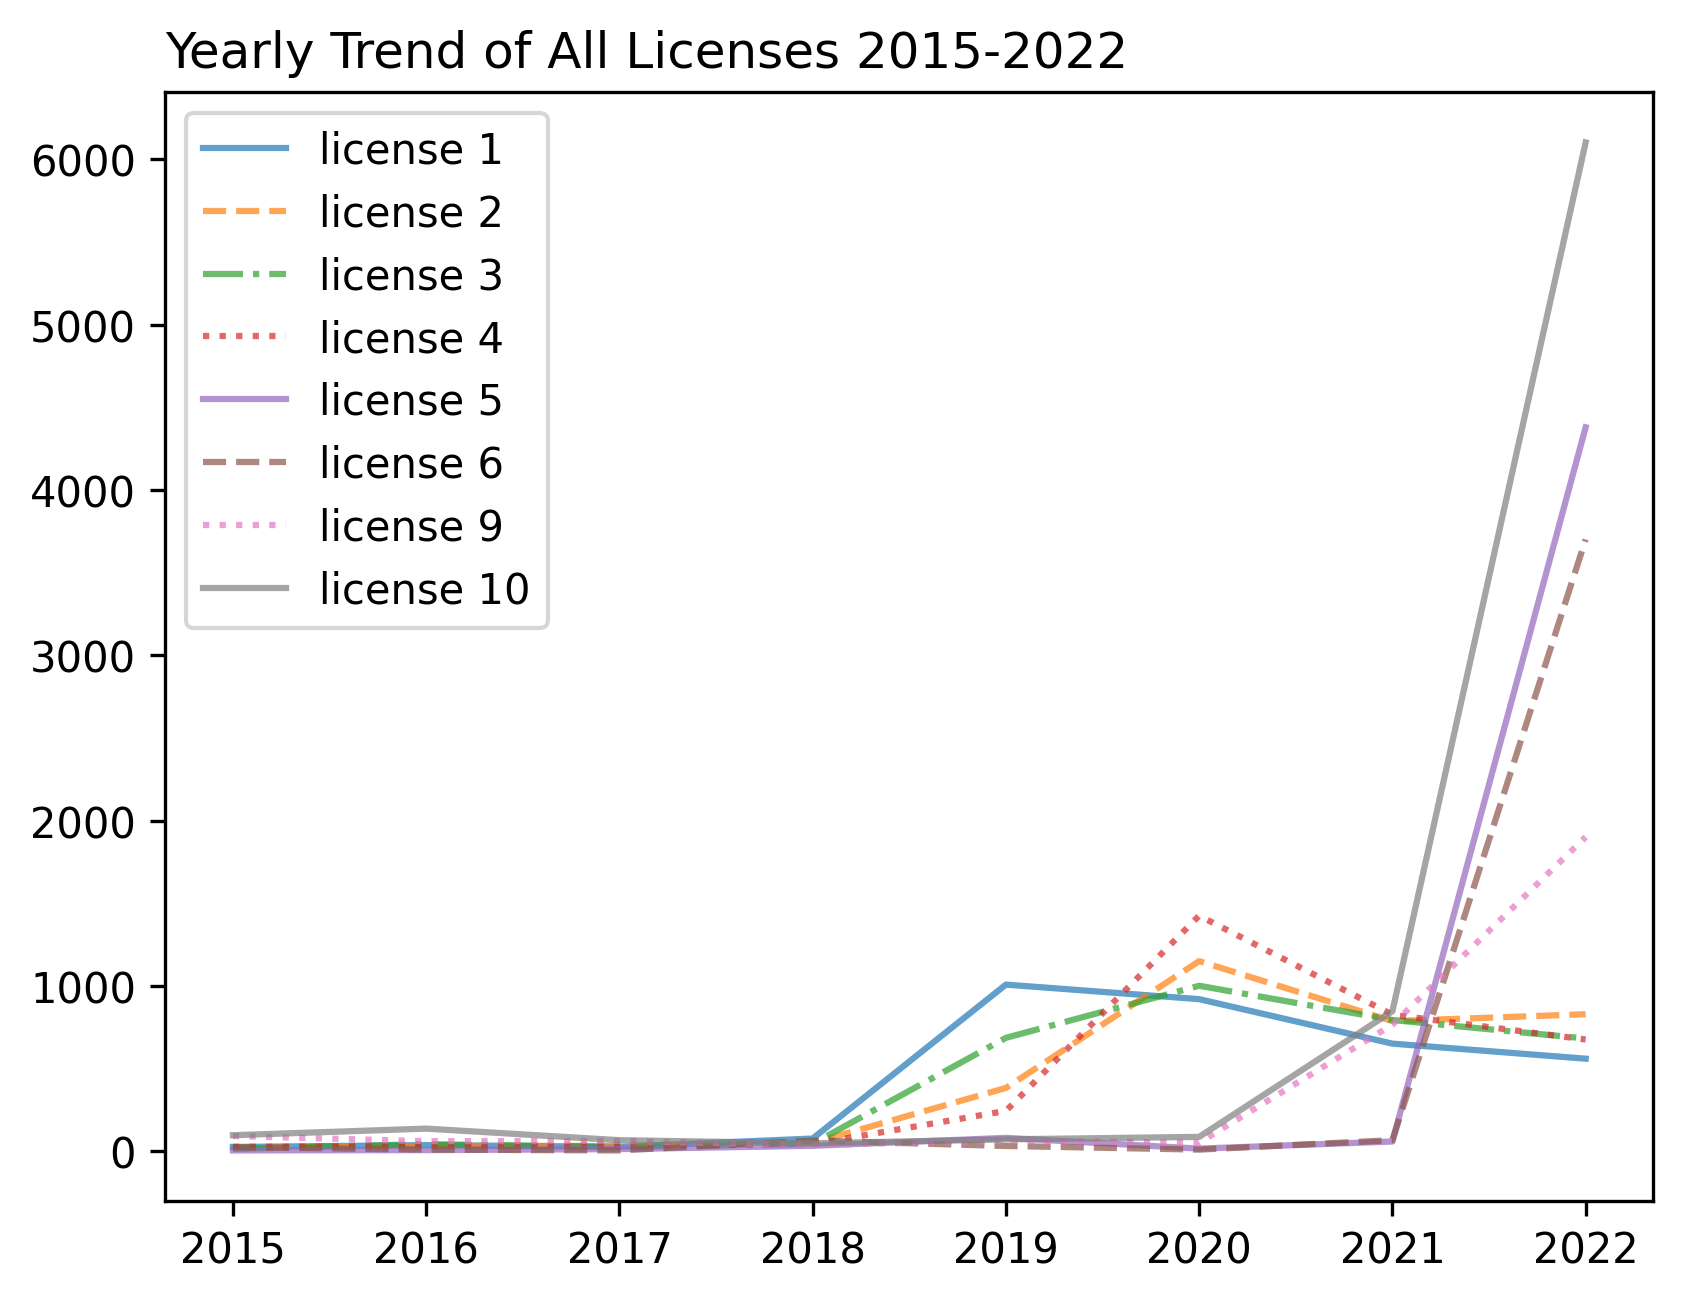
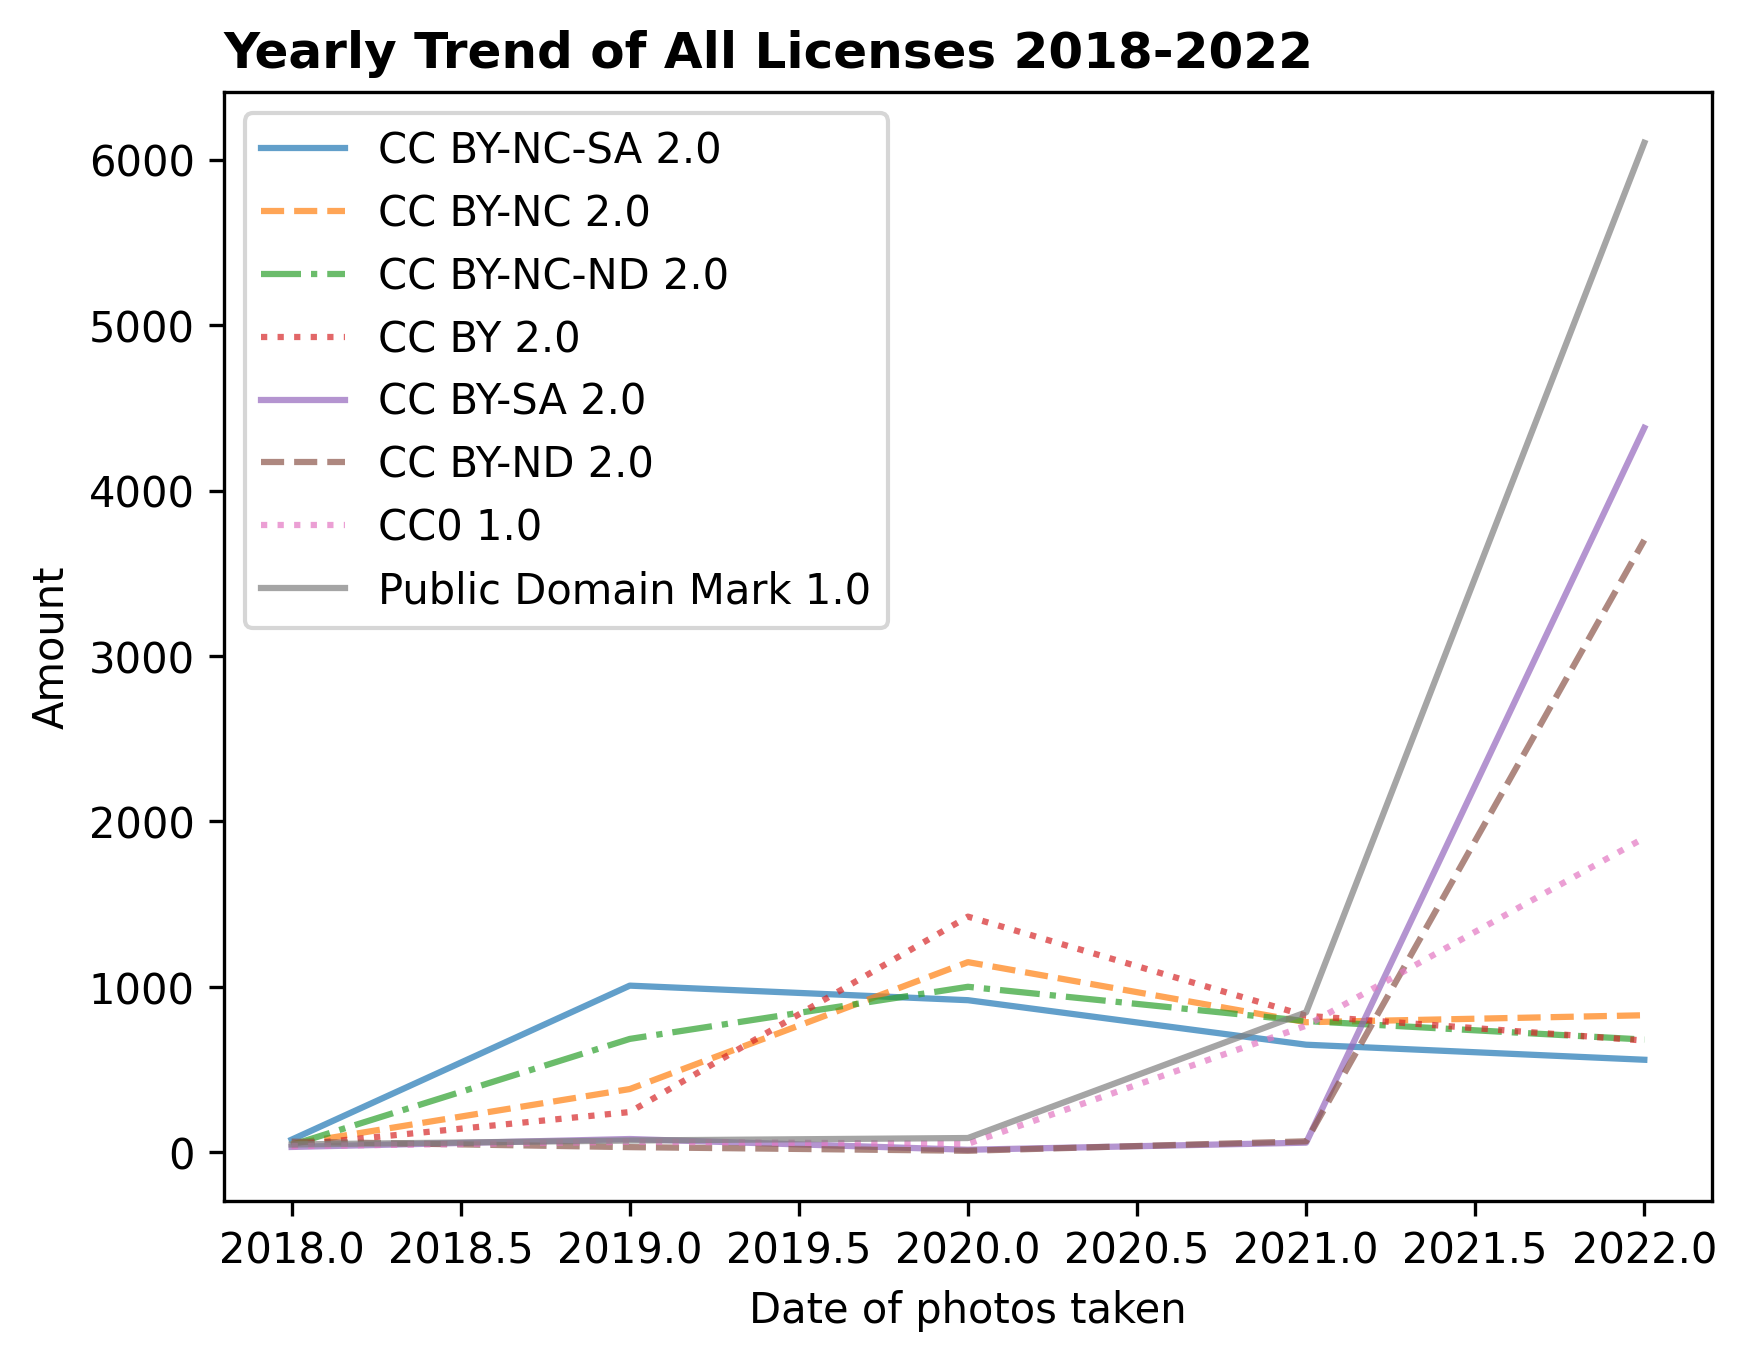
make graph clearer

Changed region(s): [[0.0, 0.0, 0.9887, 0.9831], [0.0309, 0.7066, 0.1545, 0.768], [0.0, 0.5837, 0.1545, 0.6452]]

diff --git a/analyze/data_analysis.py b/analyze/data_analysis.py
@@ -112,16 +112,20 @@ def time_trend(csv_path):
 
     # first use subplots() to create a frame of your plot (figure and axes)
     fig, ax = plt.subplots(figsize=(10, 5))
-    plt.plot(count_df["Dates"], count_df["Counts"])
+    plt.plot(count_df["Dates"], count_df["Counts"], alpha=0.5, linewidth=1)
     plt.xticks(rotation=60)
 
     # We have 828 time nodes in this dataset.
     # So we start from the 0th time node, and end at 828th time node.
     # and step 90 digits each time - only have the 0th, 90th,
     # 180th, ... time nodes showing on this graph.
-    ax.set_xticks(np.arange(0, len(count_df), 90))
-    fig.suptitle('license10 usage in flickr pictures 1967-2022', fontweight="bold")
-    plt.savefig('../analyze/line_graphs/license10_total_trend.png',
+    ax.set_xticks(np.arange(0, len(count_df), 100))
+    # ["CC BY-NC-SA 2.0", "CC BY-NC 2.0", "CC BY-NC-ND 2.0", "CC BY 2.0",
+    #  "CC BY-SA 2.0", "CC BY-ND 2.0", "CC0 1.0", "Public Domain Mark 1.0"]
+    fig.suptitle('CC0 1.0 license usage in flickr pictures 1967-2022', fontweight="bold")
+    plt.xlabel('Year', fontsize=10)
+    plt.ylabel('Amount', fontsize=10)
+    plt.savefig('../analyze/line_graphs/license9_total_trend.png',
                 dpi=300, bbox_inches='tight')
     plt.show()
 
@@ -132,12 +136,12 @@ def time_trend_compile_helper(yearly_count):
     This function will return counts - the list of "Counts" with the
     condition that their corresponding "year" is between [2000, 2022]
     """
-    Years = np.arange(2015, 2023)
+    Years = np.arange(2018, 2023)
     yearly_count["year"] = list(yearly_count.index)
     counts = []
     for num in range(len(yearly_count["Counts"])):
         if ((int(yearly_count["year"][num]) <= 2022)
-                & (int(yearly_count["year"][num]) >= 2015)):
+                & (int(yearly_count["year"][num]) >= 2018)):
             counts.append(yearly_count["Counts"][num])
     print(counts)
     final_yearly_count = pd.DataFrame(list(zip(Years, counts)),
@@ -197,16 +201,18 @@ def time_trend_compile():
     print(yearly_count1)
 
     # plot lines
-    plt.plot(yearly_count1["Years"], yearly_count1["Yearly_counts"], label="license 1", alpha=0.7, linestyle='-')
-    plt.plot(yearly_count2["Years"], yearly_count2["Yearly_counts"], label="license 2", alpha=0.7, linestyle='--')
-    plt.plot(yearly_count3["Years"], yearly_count3["Yearly_counts"], label="license 3", alpha=0.7, linestyle='-.')
-    plt.plot(yearly_count4["Years"], yearly_count4["Yearly_counts"], label="license 4", alpha=0.7, linestyle=":")
-    plt.plot(yearly_count5["Years"], yearly_count5["Yearly_counts"], label="license 5", alpha=0.7, linestyle='-')
-    plt.plot(yearly_count6["Years"], yearly_count6["Yearly_counts"], label="license 6", alpha=0.7, linestyle='--')
-    plt.plot(yearly_count9["Years"], yearly_count9["Yearly_counts"], label="license 9", alpha=0.7, linestyle=":")
-    plt.plot(yearly_count10["Years"], yearly_count10["Yearly_counts"], label="license 10", alpha=0.7)
+    plt.plot(yearly_count1["Years"], yearly_count1["Yearly_counts"], label="CC BY-NC-SA 2.0", alpha=0.7, linestyle='-')
+    plt.plot(yearly_count2["Years"], yearly_count2["Yearly_counts"], label="CC BY-NC 2.0", alpha=0.7, linestyle='--')
+    plt.plot(yearly_count3["Years"], yearly_count3["Yearly_counts"], label="CC BY-NC-ND 2.0", alpha=0.7, linestyle='-.')
+    plt.plot(yearly_count4["Years"], yearly_count4["Yearly_counts"], label="CC BY 2.0", alpha=0.7, linestyle=":")
+    plt.plot(yearly_count5["Years"], yearly_count5["Yearly_counts"], label="CC BY-SA 2.0", alpha=0.7, linestyle='-')
+    plt.plot(yearly_count6["Years"], yearly_count6["Yearly_counts"], label="CC BY-ND 2.0", alpha=0.7, linestyle='--')
+    plt.plot(yearly_count9["Years"], yearly_count9["Yearly_counts"], label="CC0 1.0", alpha=0.7, linestyle=":")
+    plt.plot(yearly_count10["Years"], yearly_count10["Yearly_counts"], label="Public Domain Mark 1.0", alpha=0.7)
     plt.legend()
-    plt.title('Yearly Trend of All Licenses 2015-2022', loc='left')
+    plt.xlabel('Date of photos taken', fontsize=10)
+    plt.ylabel('Amount', fontsize=10)
+    plt.title('Yearly Trend of All Licenses 2018-2022', loc='left', fontweight="bold")
     plt.savefig('../analyze/line_graphs/licenses_yearly_trend.png', dpi=300, bbox_inches='tight')
     plt.show()
 
@@ -235,17 +241,18 @@ def view_compare():
         maxs.append(view_compare_helper(lic))
     print(maxs)
     temp_data = pd.DataFrame()
-    temp_data["Licenses"] = ["license1", "license2", "license3", "license4",
-                             "license5", "license6", "license9", "license10"]
+    temp_data["Licenses"] = ["CC BY-NC-SA 2.0", "CC BY-NC 2.0", "CC BY-NC-ND 2.0", "CC BY 2.0",
+                             "CC BY-SA 2.0", "CC BY-ND 2.0", "CC0 1.0", "Public Domain Mark 1.0"]
     temp_data["views"] = maxs
-    fig, ax = plt.subplots(figsize=(10, 7))
+    fig, ax = plt.subplots(figsize=(13, 10))
     ax.grid(b=True, color='grey',
             linestyle='-.', linewidth=0.5,
             alpha=0.6)
     sns.set_style("dark")
     sns.barplot(data=temp_data, x="Licenses", y="views", palette="flare", errorbar="sd")
+    ax.bar_label(ax.containers[0])
     ax.set_title('Maximum Views of All Licenses',
-                 loc='left')
+                 loc='left', fontweight="bold")
     plt.savefig('../analyze/compare_graphs/max_views.png', dpi=300, bbox_inches='tight')
     plt.show()
 
@@ -260,7 +267,7 @@ def total_usage():
 
 
 def main():
-    total_usage()
+    time_trend("../flickr/dataset/cleaned_license9.csv")
     # df = pd.read_csv("../flickr/dataset/cleaned_license10.csv")
     # print(df.shape)
 
